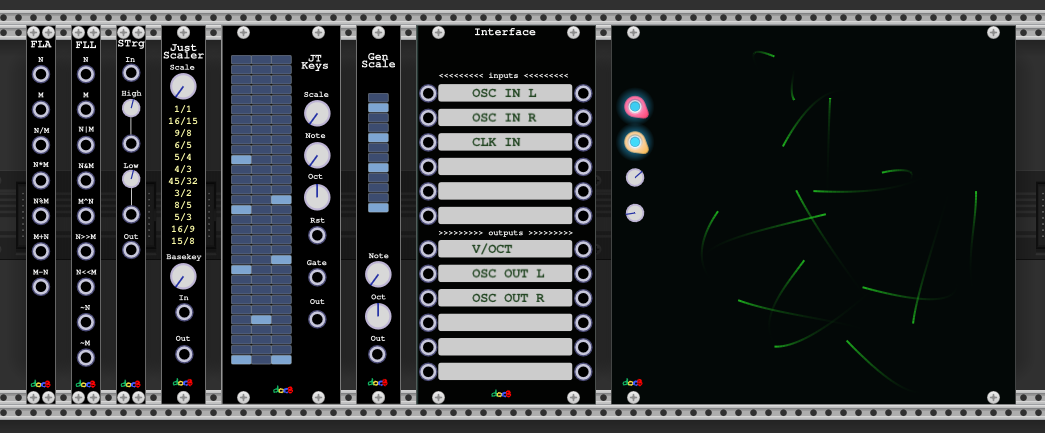
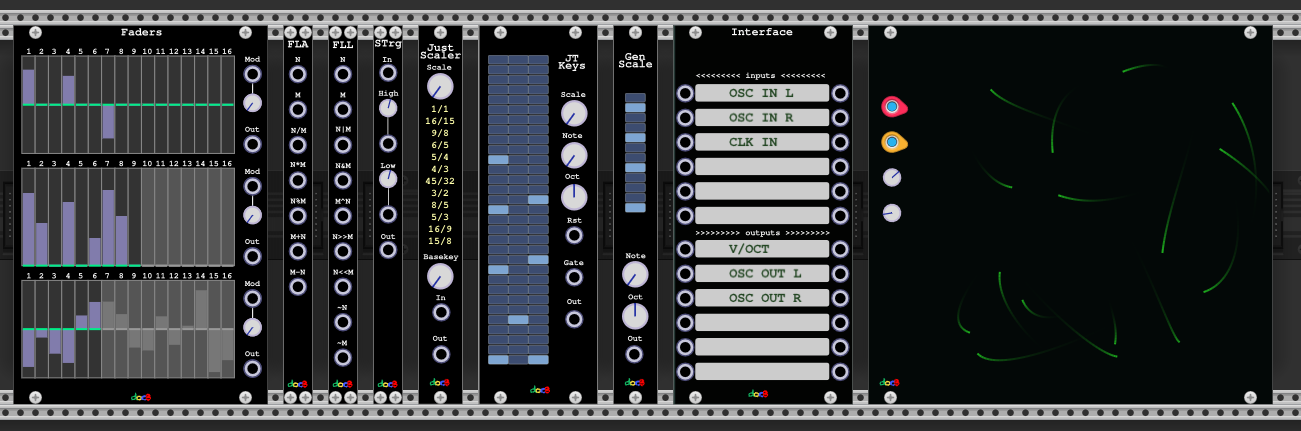
update readme

diff --git a/README.md b/README.md
@@ -1,15 +1,66 @@
 # dbRackModules
 
 Some VCVRack modules
+
+## Modular Phase Distortion
+The following modules are built for a modular phase distortion synthesis system which consists of:
+- A start module which delivers a phase. This can be anything outputting an audio wave, but
+  the most useful start phase is a clean saw wave e.g. the output of the VCV LFO Saw. Later also a sine wave or triangle wave can be considered.
+- A chain of modules which modify the phase. This also can be anything which has an input and an output.
+- A phase driven oscillator. This is the key point of the system. Such an oscillator is capable of taking an external phase
+  to produce its output. 
+
+Let's start with the last point:
+### PhO
+![](images/PhO.png?raw=true)
+
+A 16 harmonics additive phase driven oscillator. The harmonics are passed using the polyphonic input "Pts".
+When fed with a clean saw wave it outputs the additive wave.
+With the dmp parameter the harmonics can be attenuated with an exponential falling curve towards the higher harmonics.
+
+Now lets take a look what happens if the phase is modified somehow.
+Here we take a wave shaper to modify the phase:
+
+
+
+### PhS
+![](images/PhS.png?raw=true)
+
+This module provides the shaper extracted from Valley's Terrorform module for 
+shaping a phase. There are a lot of different shapes available as shown. 
+Each shape can be adjusted with the Amt parameter and input.
+
+### PHSR
+![](images/PHSR.png?raw=true)
+
+This module is a tiny Phasor module which can be used as start phase generator
+It provides a polyphonic V/Oct input, a reset input and outputs for a clean saw wave, a sinus wave and a clean triangle wave.
+
+### Other modules which can be phase driven
+There are several modules which can be phase driven:
+- SPL (new, see below): generates spline waveforms from up to 16 points
+- GeneticTerrain (updated, now with phase input)
+- Geneticsuperterrain (updated, now with phase input)
+- SuperLFO (updated, if the frequency is set to the lowest value)
+- Valley's Terrorform:
+  connect the phase to the FM input, set the attenuator to 0.5 and set "zero mode" on.
+
 ## Sound Generators
 ![](images/soundgen.png?raw=true)
+
+### SPL
+![](images/spl.png?raw=true)
+
+SPL takes up to 16 points through the polyphonic PTS input and generates a smooth spline wave.
+Additionally, it outputs the line segments and step sequence of the points through the Line/Step outputs.
+
+If SPL is fed with a phase i.e. the phase input is connected, then the V/Oct input is ignored.
 
 ### Geneticterrain
 
 Geneticterrain is a polyphonic oscillator using wave terrain synthesis.
-It is basically a port of my csound web instrument https://docb.io/geneticterrain to VCV-Rack v2.
 
-The 25 provided base terrains can be combined 4 times so each terrain is a "genetic" sequence
+The 27 provided base terrains can be combined 4 times so each terrain is a "genetic" sequence
 with length 4 (sums up to 390625 possible terrains but don't worry many of them are similar).
 There are 10 different curves available and each of it has a curve parameter. The curves can be moved on terrain
 via dragging the blue circle or the X/Y Knobs. The view of the terrains can be moved by dragging not on the blue circle.
@@ -26,8 +77,10 @@ in the image above.
 NOTE: There is no band-limiting implemented for different reasons, so you have to handle possible
 aliasing by yourself. In general: scale down the curves to cut down high frequencies.
 
-NOTE: There are a lot of performance improvements implemented, but it costs still about 4% CPU per Quad Voice
-so maximal about 16% when using 16 Voices also depending on how many and which Terrains are combined.
+NOTE: There are a lot of performance improvements implemented, but it costs still about 2% CPU per Quad Voice
+so maximal about 8% when using 16 Voices also depending on how many and which Terrains are combined.
+
+If the phs input is connected when driving it with an external phase the v/oct input is ignored.
 
 ### Geneticsuperterrain
 
@@ -54,6 +107,16 @@ If you still want to use it,
 I'd recommend to start with simple curves e.g. M1=M2  and avoid sharp,
 pointy curves. (use rather the red curve in the image above and not the yellow one).
 
+### SuperLFO
+The SuperLFO module outputs super formula curves (x and y).
+It can be used as LFO and as normal polyphonic Oscillator by moving the freq button to maximum (261.63 HZ).
+
+If the frequency is set to the lowest value it is treated as zero. Then it can act as phase driven oscillator
+by using the phs input.
+
+The current curve can be visualized by placing the plotter module on the right side of SuperLFO.
+![](images/SuperLFO.png?raw=true)
+
 ### AddSynth
 
 AddSynth is a monophonic two-dimensional additive synthesizer.
@@ -76,6 +139,25 @@ randomly generated (parameter seed) using different methods (parameter Mth).
 ### Gendy
 This is a port of Supercolliders gendy which is based on the work of Peter Hoffmann who has rebuild GENDYN
 from Iannis Xenakis.
+
+### PAD2
+![](images/PAD2.png?raw=true)
+
+This module makes pads using Paul Nascas PadSynth algorithm. It is maybe the first
+module implementing the PadSynth algorithm  which is capable of smooth handling every parameter change. The wave is computed
+completely in the background not affecting any CPU usage inside VCV Rack. But it may turn on the fan
+of your computer if a lot of parameter changes are made in short distances e.g. connecting an LFO to the BW input.
+The background processing may occupy another CPU with about 20-30%.
+
+Changes to PAD:
+- 48 Harmonics can be edited
+- The random function updates the faders and the sound can be adjusted afterwards
+- There are inputs for BW and SCL including CV attenuation.
+- Advanced: The phases for the IFFT are random generated. With the Phs-Seed parameter
+  the random seed can be changed, which does have a slight effect.
+- Advanced: The fundamental frequency is set to a low 32.7 HZ by default. This can be changed
+  with the Fund parameter. It matters if only high frequencies are played - then it may be useful to increase the fund parameter.
+  Or when experimenting with vocal frequencies ....
 
 ## Effects
 ![](images/effects.png?raw=true)
@@ -101,6 +183,8 @@ There is no equalizer on each delay line (would cause 1000 biquad filter operati
 The randomization of the mesh frequencies can be done by the frequency modulation inputs. 
 
 The standard presets are provided in the factory presets of the module. 
+
+
 
 ## Random
 ![](images/rnd.png?raw=true)
@@ -158,9 +242,6 @@ A polyphonic gaussian random trigger around a given frequency and deviation.
 The used random values can also be plugged in via the src input.
 If Chn > 1 then on each internal trigger the output channel is randomly chosen.
 
-### SuperLFO
-The SuperLFO module outputs super formula curves (x and y). 
-It can also used as normal polyphonic Oscillator by moving the freq button to maximum (261.63 HZ).
 
 ## Sequencing
 ![](images/seq.png?raw=true)
@@ -259,6 +340,18 @@ interesting sound it is best to filter out the 10K band a much as possible and p
 
 ## Others
 ![](images/other.png?raw=true)
+
+### Faders
+This module does the same as the unless towers module. But it provides some additional features:
+- It has three fader blocks
+- On click on a fader the value according to the mouse position is immediately set.
+- Adjustable voltage ranges {-10V,10V}, {-5V,5V}, {-3V,3V}, {-2V,2V}, {-1V,1V}, {0V,10V}, {0V,5V},
+  {0V,3V}, {0V,2V},{0V,1V} in the menu
+- Polyphonic channels configurable in the menu
+- Snap function: "None","Semi","0.1","Pat 32","0.5","Pat 16","1","Pat 8". If another value than None is selected in the menu,
+  the output value is quantized according to the given step value. 'Pat X' denotes 10V/X and is for CV addressing. 
+- Each block can be randomized separately in the menu.
+
 ### FLA and FFL
 FLA applies integer arithmetic to a CV signal.
 FLL applies integer bit operations to a CV signal.
@@ -272,6 +365,7 @@ However it turns out that also wired sounds can be made with this method.
 A polyphonic Schmitt Trigger module
 
 ### JTScaler
+
 JTScaler tunes a 12edo V/Oct standard input to a just intonation scale.
 
 The scales selectable via the scale knob are defined  in res/default_scales.json in the dbRackModules plugin directory.
@@ -280,6 +374,9 @@ If it can be read without errors it will be taken instead otherwise it falls bac
 (which should never be changed)
 
 ### JTKeys
+
+**DEPRECATED**   use JTChords of dbRackSequencer instead.
+
 Simulates a 31 Key Just Intonation keyboard.
 
 The scales selectable via the scale knob are defined  in res/default_scales_31.json in the dbRackModules plugin directory.
@@ -292,7 +389,7 @@ GenScale a polyphonic 16 note scale defined by the toggled buttons.
 
 ### Interface
 
-Interface is an utility to define an input/output interface for a group of modules or saved selections.
+Interface is a utility to define an input/output interface for a group of modules or saved selections.
 It does not apply anything to the inputs.
 
 ### Plotter
